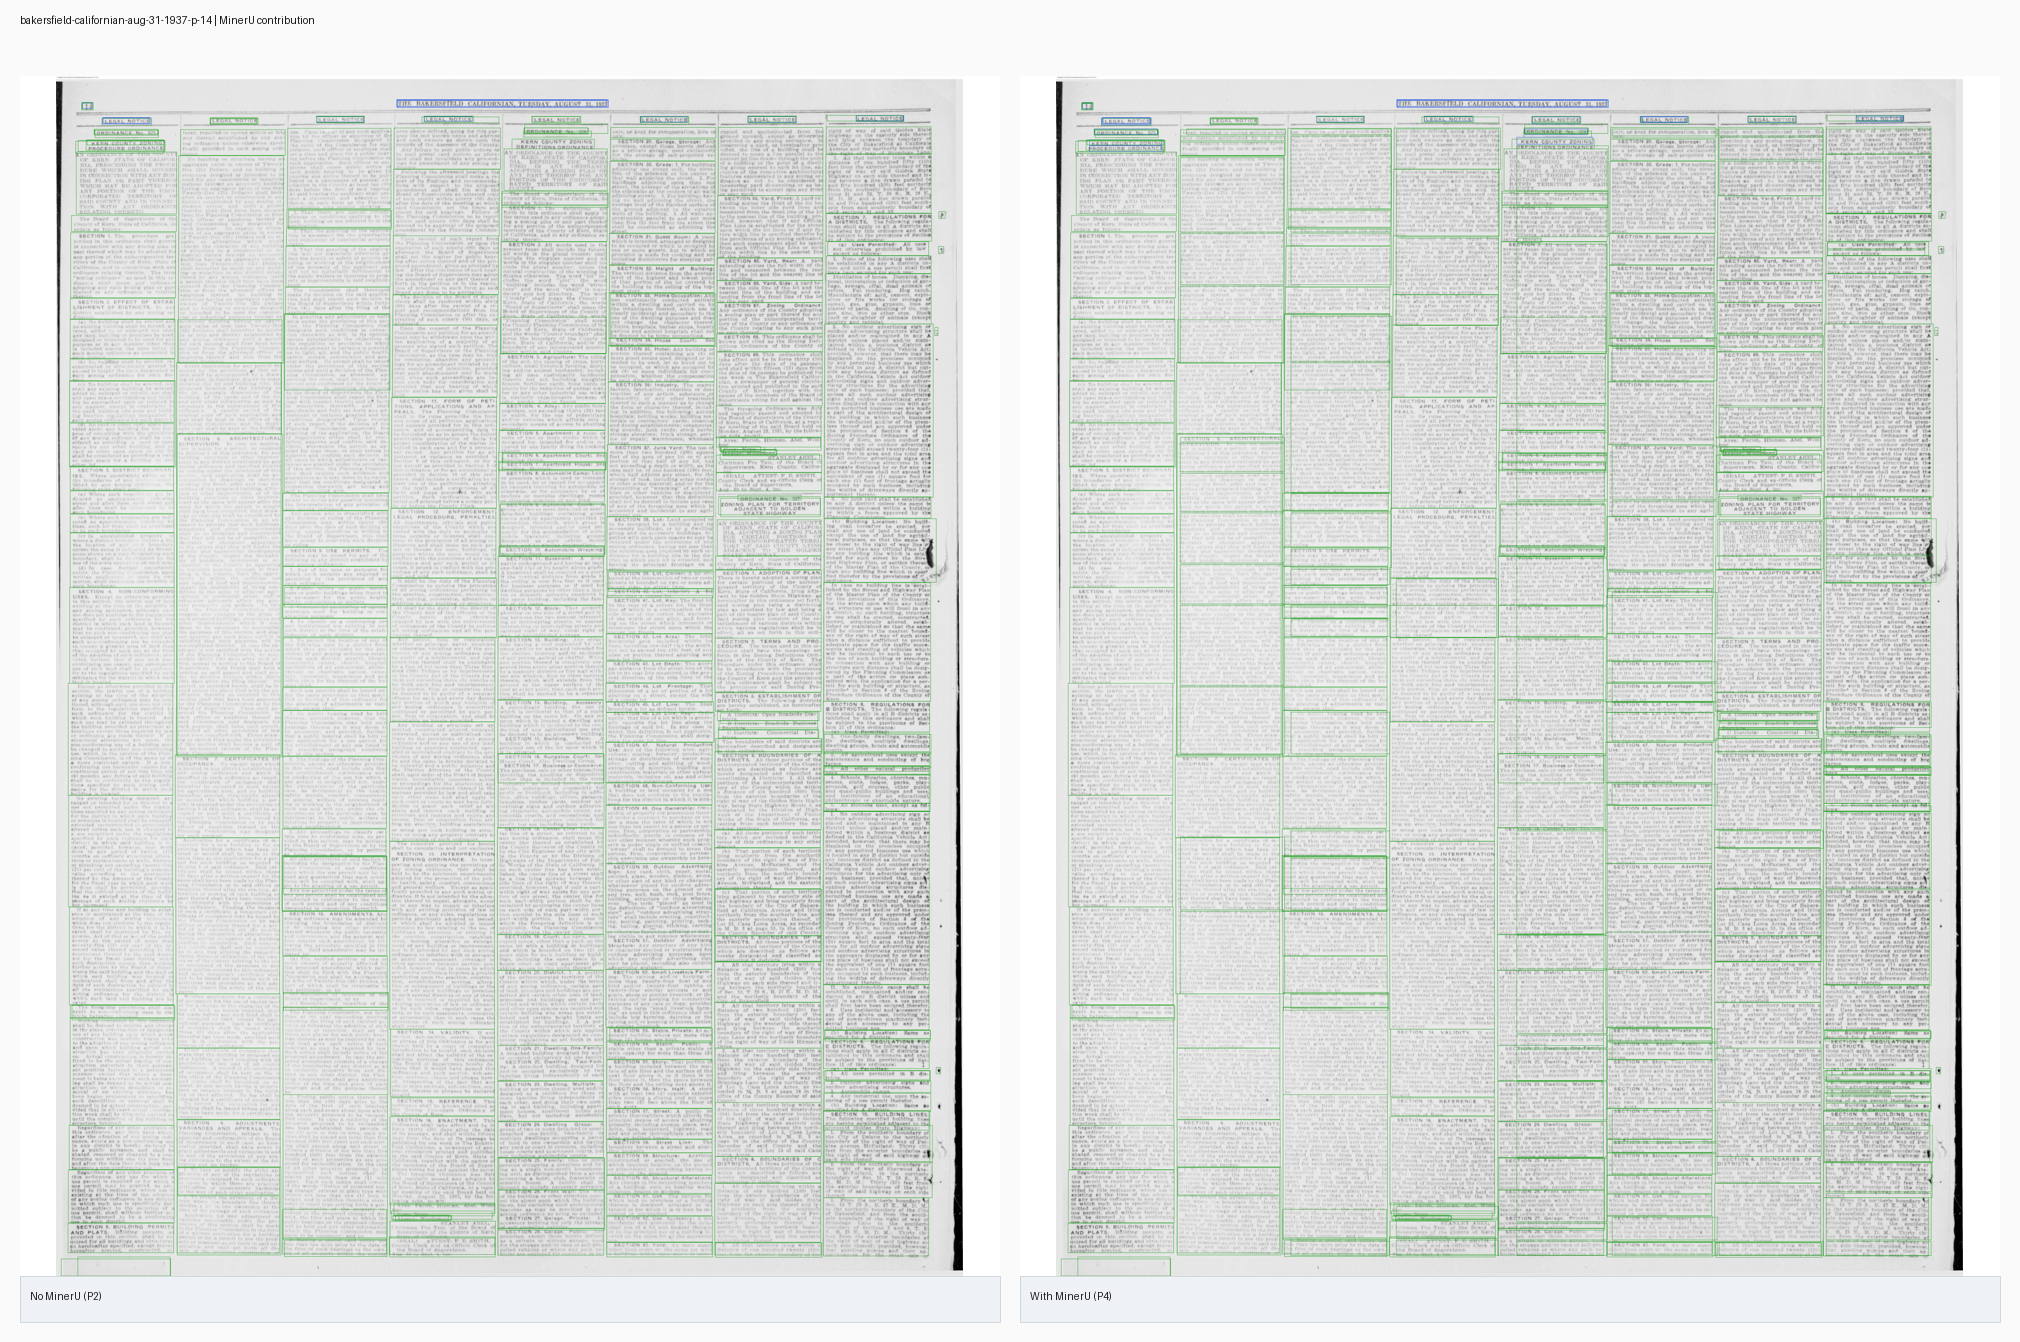
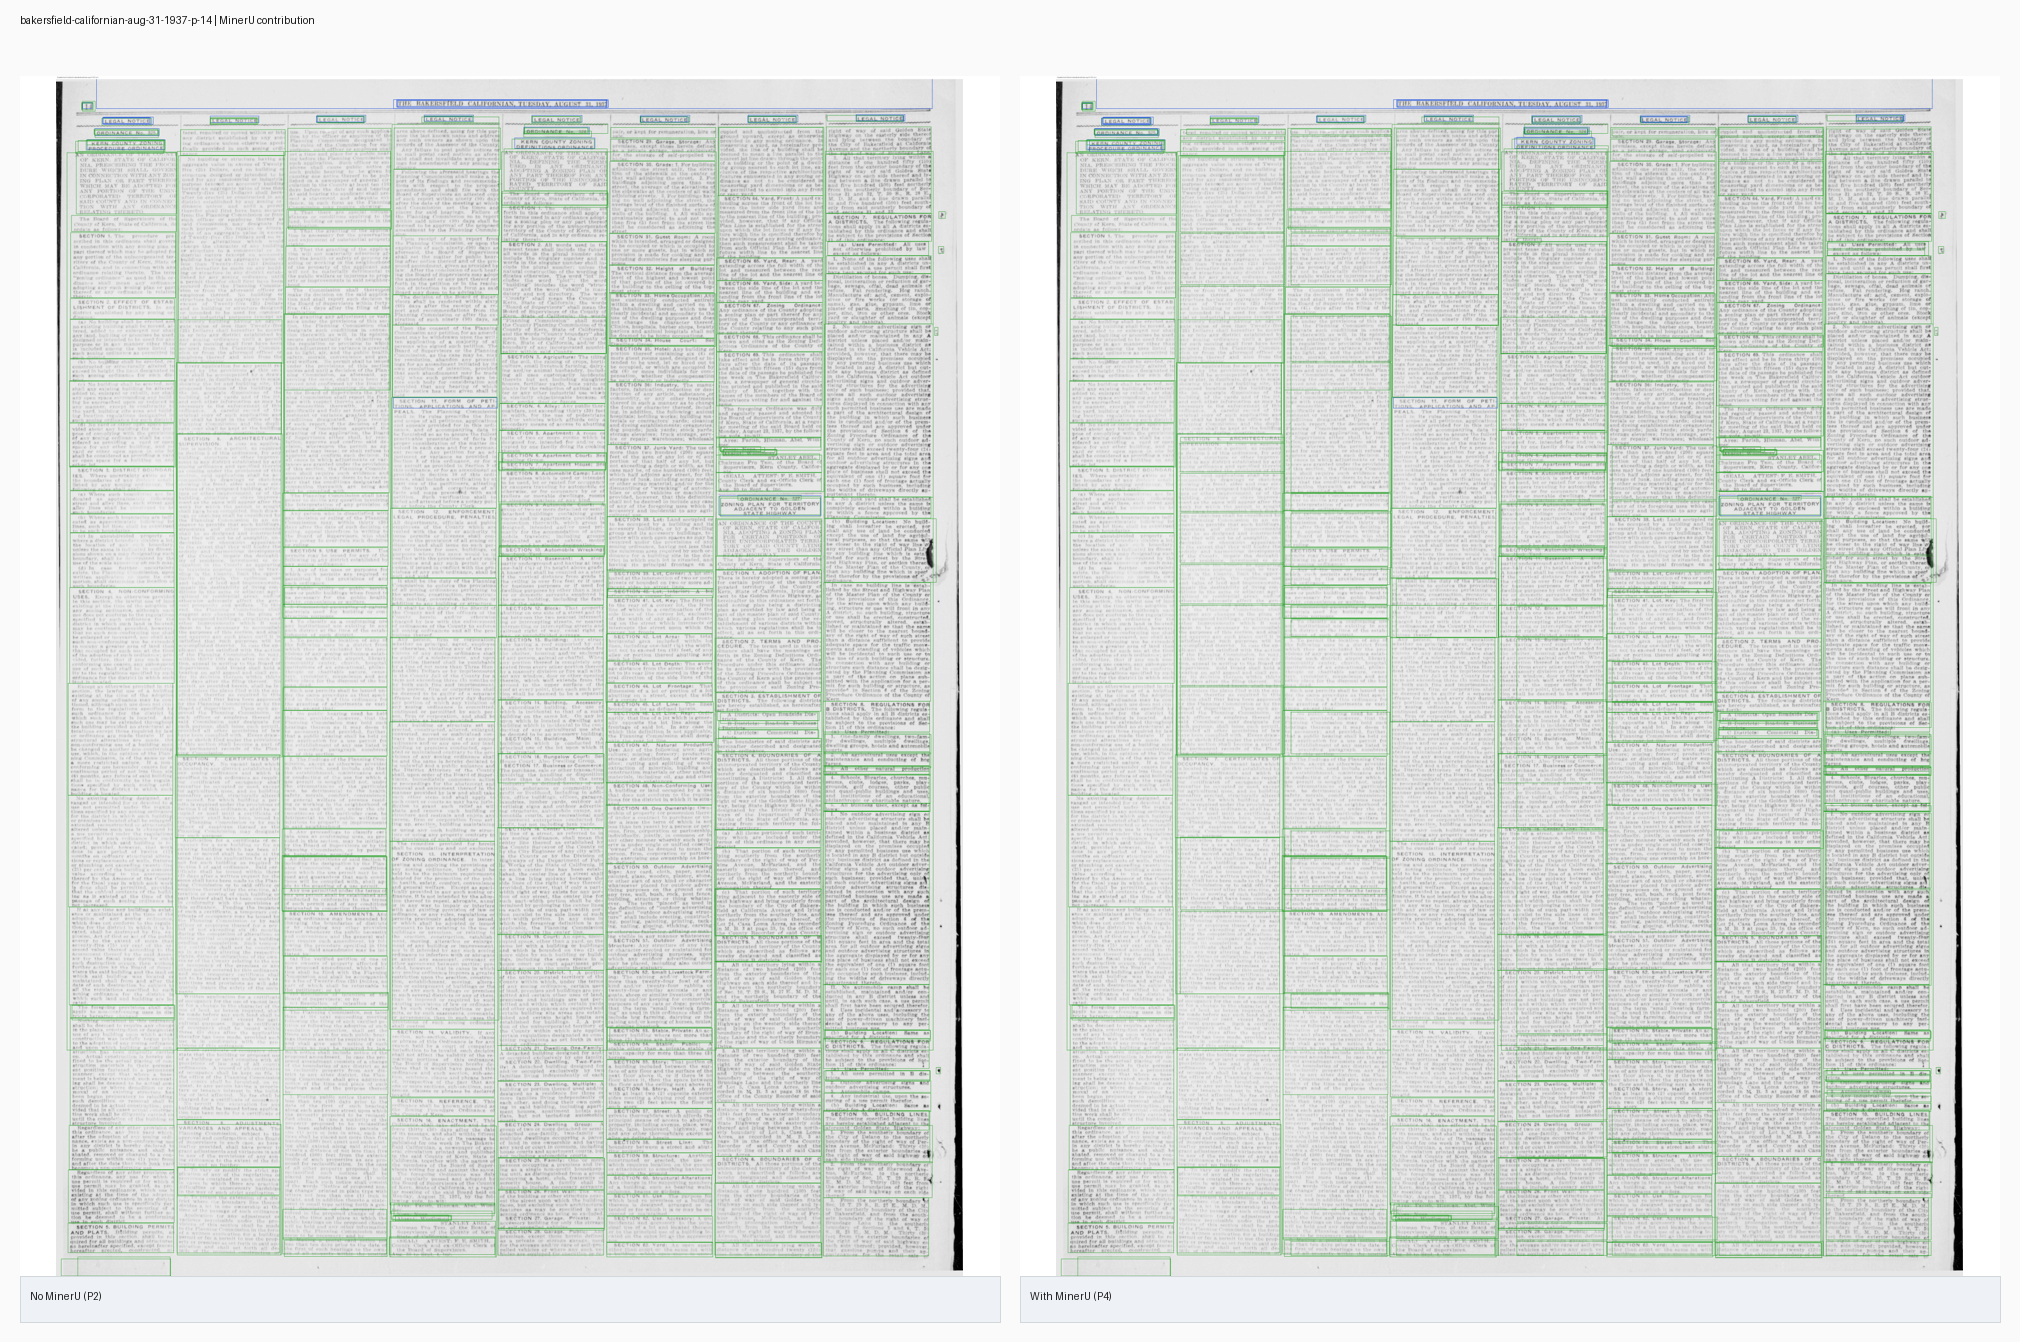
Harden external checks and refresh corrected mini-run docs

diff --git a/docs/newspaper_parsing_pipeline.tex b/docs/newspaper_parsing_pipeline.tex
@@ -66,7 +66,7 @@ Recommended orchestration on Torch is a three-job chain:
 
 This structure avoids low-GPU-utilization cancellation by keeping CPU-only steps off GPU partitions.
 
-\section{Case Study: 2-Page Mini Run}
+\section{Case Study: 2-Page Mini Run (Corrected Dell)}
 \textbf{Run ID:} \texttt{layout\_bagging\_20260213\_024626}\\
 \textbf{Pages:}
 \begin{itemize}
@@ -102,6 +102,12 @@ This structure avoids low-GPU-utilization cancellation by keeping CPU-only steps
 \caption{Bakersfield with/without MinerU panel (\texttt{P2} vs \texttt{P4}).}
 \end{figure}
 
+\begin{figure}[h]
+\centering
+\includegraphics[width=0.92\textwidth]{images/mini_run/abilene_dell_layout.png}
+\caption{Abilene Dell-only overlay after runner fix (non-empty output).}
+\end{figure}
+
 \clearpage
 \subsection{Actual Metrics (from Run Artifacts)}
 Variant leaderboard excerpt (\texttt{outputs/fusion/variant\_leaderboard.tsv}):
@@ -110,9 +116,9 @@ Variant leaderboard excerpt (\texttt{outputs/fusion/variant\_leaderboard.tsv}):
 \toprule
 Variant & Mean Base Recall & Mean Text Area & Mean Boxes \\
 \midrule
-\texttt{S1\_paddle\_best\_single} & 0.979841 & 0.698220 & 224.5 \\
-\texttt{P1\_paddle\_union4} & 0.988996 & 0.704479 & 305.5 \\
-\texttt{P4\_paddle\_union4\_plus\_dell\_plus\_mineru} & 0.989998 & 0.707744 & 382.0 \\
+\texttt{P2\_paddle\_union4\_plus\_dell} & 0.997774 & 0.737427 & 329.0 \\
+\texttt{S1\_paddle\_best\_single} & 0.966463 & 0.698220 & 224.5 \\
+\texttt{P4\_paddle\_union4\_plus\_dell\_plus\_mineru} & 0.997929 & 0.738797 & 404.5 \\
 \bottomrule
 \end{tabular}
 \end{center}
@@ -123,12 +129,22 @@ Source leaderboard excerpt (\texttt{outputs/fusion/source\_leaderboard.tsv}):
 \toprule
 Source & Mean Base Recall & Mean Text Area & Mean Boxes \\
 \midrule
-\texttt{pld\_v2\_thr03} & 0.978316 & 0.689416 & 209.5 \\
 \texttt{pld\_plusL\_thr03} & 0.979841 & 0.698220 & 224.5 \\
-\texttt{mineru25} & 0.481727 & 0.427513 & 125.0 \\
+\texttt{pld\_v2\_thr03} & 0.958174 & 0.689416 & 209.5 \\
+\texttt{dell\_c0005\_i010} & 0.884912 & 0.584741 & 25.0 \\
+\texttt{mineru25} & 0.473897 & 0.427513 & 125.0 \\
 \bottomrule
 \end{tabular}
 \end{center}
+
+\subsection{Dell Output Verification}
+The corrected Dell runner produced non-empty outputs on both pages:
+\begin{itemize}
+  \item \texttt{abilene-reporter-news-apr-29-1946-p-19}: 23 boxes
+  \item \texttt{bakersfield-californian-aug-31-1937-p-14}: 28 boxes
+\end{itemize}
+Counts are from:
+\texttt{outputs/sources/dell/dell\_c0005\_i010/<slug>/layout\_boxes.normalized.json}
 
 \subsection{Transcription Outputs}
 Generated artifacts:
@@ -150,8 +166,8 @@ Generated artifacts:
 \toprule
 Slug & Fused Boxes & OCR Lines & Assigned Lines & Transcript Chars \\
 \midrule
-\texttt{abilene...p-19} & 315 & 894 & 678 & 15394 \\
-\texttt{bakersfield...p-14} & 429 & 960 & 929 & 31105 \\
+\texttt{abilene...p-19} & 331 & 894 & 680 & 15435 \\
+\texttt{bakersfield...p-14} & 457 & 960 & 930 & 31061 \\
 \bottomrule
 \end{tabular}
 \end{center}
@@ -171,7 +187,9 @@ Slug & Fused Boxes & OCR Lines & Assigned Lines & Transcript Chars \\
   \item Torch config is pinned to a compute-node-valid Paddle binary:
   \texttt{/scratch/\$USER/paddleocr\_vl15/venv\_gpu\_l40s\_py39/bin/paddleocr}
   \item Slurm wrappers now re-install editable package automatically if the active \texttt{newsbag} import path drifts outside \texttt{PROJECT\_ROOT}.
+  \item External-source fail-fast checks are now first-class:
+  \texttt{dell.min\_nonempty\_pages} and \texttt{mineru.min\_nonempty\_pages}.
+  If a source is empty across all processed pages, the run exits before fusion/review.
 \end{itemize}
 
 \end{document}
-

diff --git a/src/newsbag/runners/external.py b/src/newsbag/runners/external.py
@@ -104,6 +104,8 @@ def run_dell(dcfg: DellConfig, manifest: Path, run_dir: Path, resume: bool = Tru
     per_page: Dict[str, Path] = {}
     agg_source_labels: Counter[str] = Counter()
     agg_norm_labels: Counter[str] = Counter()
+    ok_pages = 0
+    nonempty_pages = 0
     manifest_slugs = _load_manifest_slugs(manifest)
     page_report_rows = report_obj.get("pages") or []
     page_report_map = {
@@ -154,6 +156,9 @@ def run_dell(dcfg: DellConfig, manifest: Path, run_dir: Path, resume: bool = Tru
                 per_page[slug] = norm_path
                 agg_source_labels.update([str(b.get("source_label") or "") for b in normalized])
                 agg_norm_labels.update([str(b.get("norm_label") or "") for b in normalized])
+                ok_pages += 1
+                if normalized:
+                    nonempty_pages += 1
 
             wr.writerow(
                 [
@@ -179,6 +184,14 @@ def run_dell(dcfg: DellConfig, manifest: Path, run_dir: Path, resume: bool = Tru
             "providers_used": providers_used,
         },
     )
+    if ok_pages > 0 and nonempty_pages < int(dcfg.min_nonempty_pages):
+        raise RuntimeError(
+            "Dell produced too few non-empty pages: "
+            f"nonempty_pages={nonempty_pages}, ok_pages={ok_pages}, "
+            f"required_min_nonempty_pages={dcfg.min_nonempty_pages}. "
+            "This usually indicates a runner/config regression. "
+            f"Check {run_dir / 'reports' / f'dell_{dcfg.variant_id}.tsv'} and {log_file}."
+        )
     return per_page
 
 
@@ -216,6 +229,8 @@ def run_mineru(mcfg: MinerConfig, manifest: Path, run_dir: Path, resume: bool = 
     per_page: Dict[str, Path] = {}
     agg_source_labels: Counter[str] = Counter()
     agg_norm_labels: Counter[str] = Counter()
+    ok_pages = 0
+    nonempty_pages = 0
     manifest_slugs = _load_manifest_slugs(manifest)
     report_src = out_root / "run_report.tsv"
     report_rows: Dict[str, Dict[str, str]] = {}
@@ -263,6 +278,9 @@ def run_mineru(mcfg: MinerConfig, manifest: Path, run_dir: Path, resume: bool = 
                 per_page[slug] = norm_path
                 agg_source_labels.update([str(b.get("source_label") or "") for b in normalized])
                 agg_norm_labels.update([str(b.get("norm_label") or "") for b in normalized])
+                ok_pages += 1
+                if normalized:
+                    nonempty_pages += 1
 
             wr.writerow(
                 [
@@ -289,4 +307,12 @@ def run_mineru(mcfg: MinerConfig, manifest: Path, run_dir: Path, resume: bool = 
             "model_id": meta_obj.get("model_id"),
         },
     )
+    if ok_pages > 0 and nonempty_pages < int(mcfg.min_nonempty_pages):
+        raise RuntimeError(
+            "MinerU produced too few non-empty pages: "
+            f"nonempty_pages={nonempty_pages}, ok_pages={ok_pages}, "
+            f"required_min_nonempty_pages={mcfg.min_nonempty_pages}. "
+            "This usually indicates a runner/config regression. "
+            f"Check {run_dir / 'reports' / f'mineru_{mcfg.variant_id}.tsv'} and {log_file}."
+        )
     return per_page

diff --git a/src/newsbag/config.py b/src/newsbag/config.py
@@ -38,6 +38,7 @@ class DellConfig:
     iou: float = 0.10
     imgsz: int = 1280
     require_cuda_provider: bool = False
+    min_nonempty_pages: int = 1
 
 
 @dataclass
@@ -49,6 +50,7 @@ class MinerConfig:
     model_id: str = "opendatalab/MinerU2.5-2509-1.2B"
     max_pages: int = 0
     require_cuda: bool = False
+    min_nonempty_pages: int = 1
 
 
 @dataclass
@@ -200,6 +202,7 @@ def load_config(path: Path) -> PipelineConfig:
         iou=float(dl.get("iou", 0.10)),
         imgsz=int(dl.get("imgsz", 1280)),
         require_cuda_provider=bool(dl.get("require_cuda_provider", False)),
+        min_nonempty_pages=int(dl.get("min_nonempty_pages", 1)),
     )
 
     mn = payload.get("mineru", {})
@@ -214,6 +217,7 @@ def load_config(path: Path) -> PipelineConfig:
         model_id=str(mn.get("model_id", "opendatalab/MinerU2.5-2509-1.2B")),
         max_pages=int(mn.get("max_pages", 0)),
         require_cuda=bool(mn.get("require_cuda", False)),
+        min_nonempty_pages=int(mn.get("min_nonempty_pages", 1)),
     )
 
     fs = payload.get("fusion", {})
@@ -312,6 +316,7 @@ def config_to_jsonable(cfg: PipelineConfig) -> Dict[str, Any]:
             "iou": cfg.dell.iou,
             "imgsz": cfg.dell.imgsz,
             "require_cuda_provider": cfg.dell.require_cuda_provider,
+            "min_nonempty_pages": cfg.dell.min_nonempty_pages,
         },
         "mineru": {
             "enabled": cfg.mineru.enabled,
@@ -321,6 +326,7 @@ def config_to_jsonable(cfg: PipelineConfig) -> Dict[str, Any]:
             "model_id": cfg.mineru.model_id,
             "max_pages": cfg.mineru.max_pages,
             "require_cuda": cfg.mineru.require_cuda,
+            "min_nonempty_pages": cfg.mineru.min_nonempty_pages,
         },
         "fusion": {
             "line_cover_threshold": cfg.fusion.line_cover_threshold,

diff --git a/README.md b/README.md
@@ -172,8 +172,12 @@ Default recommended variant in Torch config:
 - Always request Torch GPUs via `--gres=gpu:<type>:1`.
 - Keep fusion/review off GPU partitions (CPU job only) to avoid low-util cancellation.
 - As of February 2026 on Torch, Paddle stages are most reliable on `l40s_public`; split mode handles this automatically.
+- External-source guardrails are enabled by default:
+  - `dell.min_nonempty_pages` (default `1`)
+  - `mineru.min_nonempty_pages` (default `1`)
+  If an external source returns empty boxes across all processed pages, the run fails fast before fusion/review.
 
-## Mini-Run Example (Abilene + Bakersfield, Feb 13, 2026)
+## Mini-Run Example (Abilene + Bakersfield, Corrected Dell, Feb 13, 2026)
 
 This is a real completed run on Torch with two representative pages:
 
@@ -186,9 +190,8 @@ Submission command used:
 ```bash
 cd /scratch/$USER/paddleocr_vl15/newspaper-parsing
 bash torch/slurm/submit_newsbag_from_dir.sh \
-  --input-dir /scratch/$USER/paddleocr_vl15/input/ad_hoc_newspapers_20260205_190618 \
-  --gpu l40s \
-  --max-pages 2
+  --input-dir /scratch/$USER/paddleocr_vl15/input/newspaper_parsing_example_20260213 \
+  --gpu l40s
 ```
 
 ### Visuals from that run
@@ -201,18 +204,34 @@ bash torch/slurm/submit_newsbag_from_dir.sh \
 
 ![Bakersfield with vs without MinerU](docs/images/mini_run/bakersfield_miner_delta.png)
 
+![Abilene Dell-only overlay (corrected)](docs/images/mini_run/abilene_dell_layout.png)
+
 ### Actual output metrics (from `variant_leaderboard.tsv`)
 
 | Variant | Mean Base Recall | Mean Text Area | Mean Boxes |
 |---|---:|---:|---:|
-| `S1_paddle_best_single` | 0.979841 | 0.698220 | 224.5 |
-| `P1_paddle_union4` | 0.988996 | 0.704479 | 305.5 |
-| `P4_paddle_union4_plus_dell_plus_mineru` | 0.989998 | 0.707744 | 382.0 |
+| `P2_paddle_union4_plus_dell` | 0.997774 | 0.737427 | 329.0 |
+| `S1_paddle_best_single` | 0.966463 | 0.698220 | 224.5 |
+| `P4_paddle_union4_plus_dell_plus_mineru` | 0.997929 | 0.738797 | 404.5 |
+
+### Dell sanity check (corrected)
+
+- `abilene-reporter-news-apr-29-1946-p-19`: `23` Dell boxes
+- `bakersfield-californian-aug-31-1937-p-14`: `28` Dell boxes
+- Source files:
+  - `outputs/sources/dell/dell_c0005_i010/<slug>/layout_boxes.normalized.json`
 
 ### Actual transcription outputs
 
 - `outputs/transcription/P4_paddle_union4_plus_dell_plus_mineru/transcription_report.tsv`
 - `outputs/transcription/P4_paddle_union4_plus_dell_plus_mineru/transcript_combined.txt`
+
+Transcription report excerpt:
+
+| Page | Fused Boxes | OCR Lines | Assigned Lines | Transcript Chars |
+|---|---:|---:|---:|---:|
+| `abilene-reporter-news-apr-29-1946-p-19` | 331 | 894 | 680 | 15435 |
+| `bakersfield-californian-aug-31-1937-p-14` | 457 | 960 | 930 | 31061 |
 
 ## Licensing note
 

diff --git a/docs/torch_hpc.md b/docs/torch_hpc.md
@@ -67,6 +67,15 @@ $BASE/envs/mineru25_py310/bin/python -c 'import onnxruntime as ort; print(ort.ge
 $BASE/envs/mineru25_py310/bin/python -c 'import mineru_vl_utils; print(mineru_vl_utils.__version__)'
 ```
 
+Important: some Paddle envs can work on login nodes but fail on compute nodes. Validate on a compute node
+before long runs (for example via `sbatch --wrap`):
+
+```bash
+sbatch --parsable -A torch_pr_609_general -p cs \
+  --cpus-per-task=2 --mem=4G --time=00:05:00 \
+  --wrap '/scratch/$USER/paddleocr_vl15/venv_gpu_l40s_py39/bin/paddleocr --help'
+```
+
 ## GPU Utilization Guardrails
 
 Torch can cancel jobs with low average GPU utilization. To avoid that:
@@ -81,6 +90,9 @@ Torch can cancel jobs with low average GPU utilization. To avoid that:
 - `nvidia-smi` at job start.
 - Check `outputs/sources/dell/<variant>/run_report.json` for `providers_used`.
 - Check `outputs/sources/mineru/<variant>/run_meta.json` for `cuda_available`.
+- Check external-source fail-fast thresholds in config:
+  - `dell.min_nonempty_pages`
+  - `mineru.min_nonempty_pages`
 
 ## Suggested Submission Flow
 
